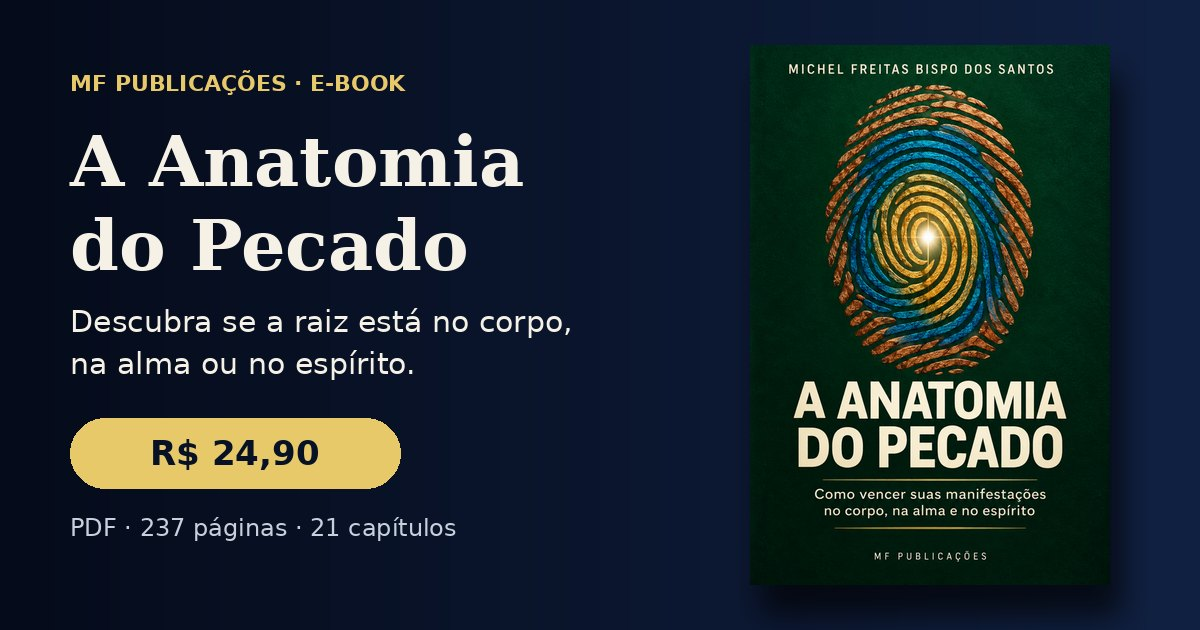
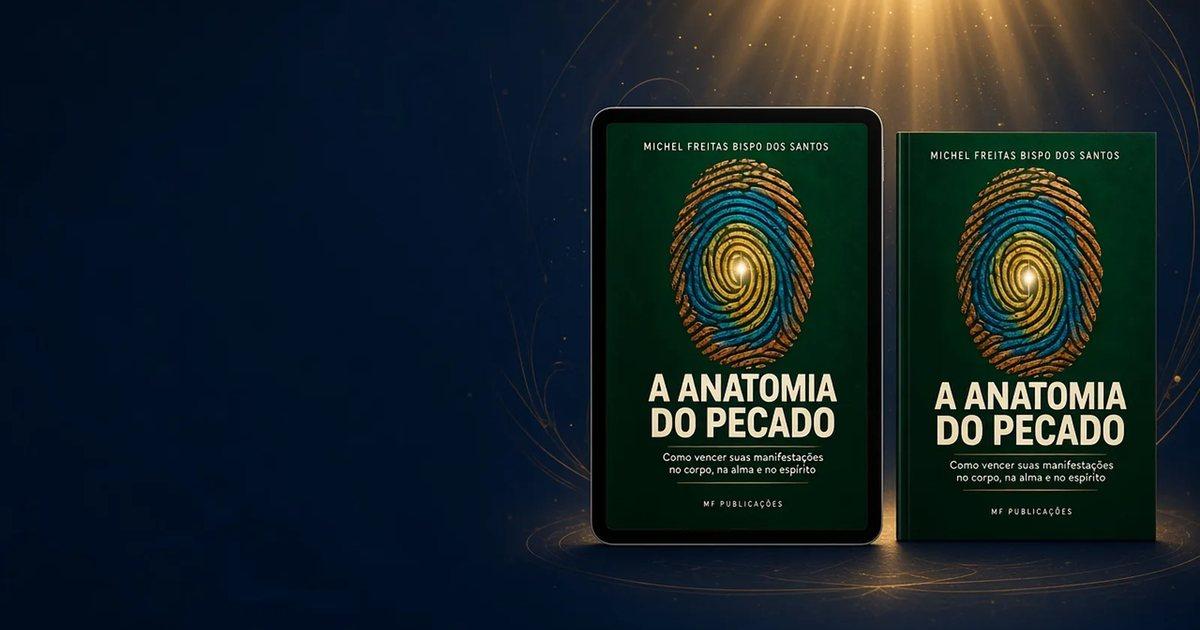
Wire the new hero, virada, author, and divider images.
Use the 16:9 book mockup in the hero, the open Bible in A virada, the gold portrait for the author, and the filigree between major sections. Rebuild the Open Graph image from the hero and drop the photos those sections no longer use.

diff --git a/styles.css b/styles.css
@@ -21,7 +21,7 @@ h3{font-size:1.35rem}
 
 /* HERO */
 .hero{background:radial-gradient(circle at 85% 15%,#1a3466,transparent 42%),linear-gradient(160deg,var(--navy3) 30%,var(--navy));color:var(--cream)}
-.hero-grid{display:grid;grid-template-columns:1.15fr .85fr;gap:56px;align-items:center;padding-block:72px}
+.hero-grid{display:grid;grid-template-columns:minmax(0,1.05fr) minmax(0,.95fr);gap:28px;align-items:center;padding-block:52px 44px}
 .hero h1 em{color:var(--gold2);font-style:italic}
 .lead{font-size:1.15rem;opacity:.92;max-width:600px;margin:0 0 24px}
 .buy-box{background:#ffffff0d;border:1px solid #e8c96a40;border-radius:20px;padding:20px;max-width:520px}
@@ -34,7 +34,8 @@ h3{font-size:1.35rem}
 .btn:focus-visible{outline:3px solid #fff;outline-offset:3px}
 .btn-inline{display:inline-flex;margin-top:8px}
 .micro{font-size:.82rem;opacity:.72;margin:12px 0 0}
-.hero-photo{justify-self:center;max-width:440px;border-radius:20px;overflow:hidden;box-shadow:0 30px 70px #0006}
+.hero-photo{justify-self:end;width:100%;max-width:620px;border:0;border-radius:0;overflow:visible;box-shadow:none;background:transparent}
+.hero-photo img{width:100%;height:auto;aspect-ratio:16/9;object-fit:cover;object-position:right center;-webkit-mask-image:linear-gradient(90deg,transparent 0%,#000 30%,#000 100%),linear-gradient(transparent 0%,#000 8%,#000 92%,transparent 100%);-webkit-mask-composite:source-in;mask-image:linear-gradient(90deg,transparent 0%,#000 30%,#000 100%),linear-gradient(transparent 0%,#000 8%,#000 92%,transparent 100%);mask-composite:intersect}
 
 .strip{display:flex;justify-content:center;gap:28px;padding:11px;background:var(--navy3);color:#9aa8c0;font-size:.66rem;letter-spacing:.13em;border-top:1px solid #e8c96a26}
 .strip b{color:var(--gold2)}
@@ -58,7 +59,9 @@ blockquote{font-family:"Playfair Display",serif;font-style:italic;font-size:1.55
 .list b{color:var(--gold-ink);font-family:"Playfair Display",serif;font-size:1.2rem}
 
 .split{display:grid;grid-template-columns:1fr 1fr;gap:58px;align-items:center}
-.photo{border-radius:20px;overflow:hidden;max-width:460px;border:1px solid #c9a24a55;justify-self:center;box-shadow:0 24px 60px #0b1a3333}
+.photo{border-radius:20px;overflow:hidden;max-width:500px;border:1px solid #c9a24a55;justify-self:center;box-shadow:0 24px 60px #0b1a3333}
+.photo img{width:100%;height:auto}
+.turn .photo img{aspect-ratio:4/3;object-fit:cover}
 .book{justify-self:center;max-width:340px;perspective:900px}
 .book img{border-radius:6px;box-shadow:0 30px 60px #0008,0 0 0 1px #ffffff14;transition:transform .4s}
 .excerpt{font-size:1.25rem;color:var(--ink);background:#fff8;border-left:4px solid var(--gold);border-radius:0 14px 14px 0;padding:22px 24px;margin:20px 0 0}
@@ -99,6 +102,9 @@ footer p{margin:4px 0}
 footer .brand{color:var(--gold2);font-weight:800;letter-spacing:.18em}
 footer a{color:var(--gold2)}
 
+.ornament{background:#041027;line-height:0;padding:12px 0 16px}
+.ornament img{width:min(520px,calc(100% - 48px));height:auto;margin:0 auto;-webkit-mask-image:linear-gradient(90deg,transparent,#000 14%,#000 86%,transparent);mask-image:linear-gradient(90deg,transparent,#000 14%,#000 86%,transparent)}
+
 .sticky{display:none}
 
 /* Animações */
@@ -109,8 +115,9 @@ footer a{color:var(--gold2)}
 
 @media(max-width:880px){
   .hero-grid,.split{grid-template-columns:1fr}
-  .hero-grid{padding-block:28px 40px;gap:28px}
-  .hero-photo{max-width:300px}
+  .hero-grid{padding-block:20px 28px;gap:18px}
+  .hero-photo{max-width:none;width:100%;justify-self:stretch;border-radius:16px;overflow:hidden;border:1px solid #c9a24a40}
+  .hero-photo img{-webkit-mask-image:none;mask-image:none}
   .cards,.toc{grid-template-columns:1fr}
   .steps{grid-template-columns:1fr 1fr}
   .section{padding:64px 0}
@@ -121,14 +128,17 @@ footer a{color:var(--gold2)}
 @media(max-width:560px){
   body{padding-bottom:84px}
   .shell,.narrow{width:calc(100% - 32px)}
-  h1{font-size:1.85rem}
+  .hero-grid{padding-block:14px 16px;gap:14px}
+  h1{font-size:1.68rem;margin-bottom:10px}
   h2{font-size:1.7rem}
-  .lead{font-size:1.02rem;margin-bottom:18px}
-  .eyebrow{margin-bottom:10px}
-  .buy-box{padding:16px}
-  .price{font-size:2.2rem}
-  .hero-photo{max-width:240px}
-  .btn{width:100%;padding:17px 16px;font-size:.95rem}
+  .lead{font-size:1rem;margin-bottom:12px}
+  .eyebrow{margin-bottom:8px}
+  .buy-box{padding:14px}
+  .price-row{gap:12px;margin-bottom:12px}
+  .mini-cover{width:52px}
+  .price{font-size:2.05rem}
+  .micro{margin-top:8px}
+  .btn{width:100%;padding:15px 16px;font-size:.95rem}
   .steps{grid-template-columns:1fr}
   .strip span:last-child{display:none}
   .strip{font-size:.55rem;gap:12px}
@@ -149,6 +159,6 @@ footer a{color:var(--gold2)}
   .sticky{transition:none}
 }
 
-.author-photo{max-width:380px}
-@media(max-width:880px){.author-photo{max-width:280px}}
-.hero-photo{border:1px solid #c9a24a55}
+.author-photo{max-width:340px;border-radius:16px;background:#071226}
+.author-photo img{aspect-ratio:1/1;object-fit:contain}
+@media(max-width:880px){.author-photo{max-width:260px}}

diff --git a/index.html b/index.html
@@ -81,9 +81,8 @@ ttq.page();
         <p class="micro">Pagamento seguro pela Kiwify · Acesso enviado por e-mail após a confirmação</p>
       </div>
     </div>
-    <!-- FOTO DO HERO: para trocar, rode nova/build_images.py ou substitua assets/img/autor-hero.webp (880×1100) e autor-hero-sm.webp (440×550) -->
     <figure class="hero-photo">
-      <img src="assets/img/autor-hero.webp" srcset="assets/img/autor-hero-sm.webp 440w, assets/img/autor-hero.webp 880w" sizes="(max-width:560px) 240px, (max-width:880px) 300px, 440px" width="880" height="1100" alt="Michel Freitas segurando o livro A Anatomia do Pecado" fetchpriority="high">
+      <img src="assets/img/hero-livro.webp" srcset="assets/img/hero-livro-sm.webp 800w, assets/img/hero-livro.webp 1600w" sizes="(max-width:880px) calc(100vw - 32px), 560px" width="1600" height="900" alt="E-book A Anatomia do Pecado em tablet e livro" fetchpriority="high">
     </figure>
   </div>
 </header>
@@ -103,6 +102,10 @@ ttq.page();
     <a class="btn btn-inline" href="https://pay.kiwify.com.br/zNCxCUE" data-cta="ciclo">QUERO O E-BOOK POR R$ 24,90</a>
   </div>
 </section>
+
+<div class="ornament" aria-hidden="true">
+  <img src="assets/img/divisor.webp" srcset="assets/img/divisor-sm.webp 512w, assets/img/divisor.webp 1024w" sizes="(max-width:600px) 88vw, 520px" width="1024" height="180" alt="" loading="lazy" decoding="async">
+</div>
 
 <!-- ============ ESTRUTURA ============ -->
 <section class="dark section">
@@ -214,12 +217,15 @@ ttq.page();
   </div>
 </section>
 
+<div class="ornament" aria-hidden="true">
+  <img src="assets/img/divisor.webp" srcset="assets/img/divisor-sm.webp 512w, assets/img/divisor.webp 1024w" sizes="(max-width:600px) 88vw, 520px" width="1024" height="180" alt="" loading="lazy" decoding="async">
+</div>
+
 <!-- ============ A VIRADA ============ -->
 <section class="turn section">
   <div class="shell split">
-    <!-- FOTO "A VIRADA": substitua assets/img/autor-mesa.webp (880×1100) e autor-mesa-sm.webp (440×550) -->
     <figure class="photo reveal">
-      <img src="assets/img/autor-mesa.webp" srcset="assets/img/autor-mesa-sm.webp 440w, assets/img/autor-mesa.webp 880w" sizes="(max-width:880px) 90vw, 460px" width="880" height="1100" loading="lazy" decoding="async" alt="Michel Freitas no escritório da MF Publicações">
+      <img src="assets/img/secao-virada.webp" srcset="assets/img/secao-virada-sm.webp 512w, assets/img/secao-virada.webp 1024w" sizes="(max-width:880px) 90vw, 480px" width="1024" height="768" loading="lazy" decoding="async" alt="Bíblia aberta sobre a mesa à luz de um abajur">
     </figure>
     <div class="reveal">
       <span class="eyebrow ink">A VIRADA</span>
@@ -230,12 +236,15 @@ ttq.page();
   </div>
 </section>
 
+<div class="ornament" aria-hidden="true">
+  <img src="assets/img/divisor.webp" srcset="assets/img/divisor-sm.webp 512w, assets/img/divisor.webp 1024w" sizes="(max-width:600px) 88vw, 520px" width="1024" height="180" alt="" loading="lazy" decoding="async">
+</div>
+
 <!-- ============ SOBRE O AUTOR ============ -->
 <section class="cream section">
   <div class="shell split">
-    <!-- FOTO DO AUTOR: substitua assets/img/autor-retrato.webp (640×640) e autor-retrato-sm.webp (320×320) -->
     <figure class="photo author-photo reveal">
-      <img src="assets/img/autor-retrato.webp" srcset="assets/img/autor-retrato-sm.webp 320w, assets/img/autor-retrato.webp 640w" sizes="(max-width:880px) 280px, 380px" width="640" height="640" loading="lazy" decoding="async" alt="Michel Freitas Bispo dos Santos">
+      <img src="assets/img/autor-ilustrado.webp" srcset="assets/img/autor-ilustrado-sm.webp 400w, assets/img/autor-ilustrado.webp 800w" sizes="(max-width:880px) 260px, 340px" width="800" height="800" loading="lazy" decoding="async" alt="Ilustração: Michel Freitas lendo a Bíblia">
     </figure>
     <div class="reveal">
       <span class="eyebrow ink">SOBRE O AUTOR</span>
@@ -287,6 +296,10 @@ ttq.page();
     <details><summary>Tive um problema com o acesso. Com quem falo?</summary><p>Responda ao e-mail de compra da Kiwify ou fale com a MF Publicações pelos canais no rodapé desta página.</p></details>
   </div>
 </section>
+
+<div class="ornament" aria-hidden="true">
+  <img src="assets/img/divisor.webp" srcset="assets/img/divisor-sm.webp 512w, assets/img/divisor.webp 1024w" sizes="(max-width:600px) 88vw, 520px" width="1024" height="180" alt="" loading="lazy" decoding="async">
+</div>
 
 <!-- ============ CHAMADA FINAL ============ -->
 <section class="dark section final">

diff --git a/README.md b/README.md
@@ -3,12 +3,13 @@
 Página estática para GitHub Pages: `index.html`, `styles.css`, `script.js` e `assets/img/`.
 
 ## Como trocar as fotos
-Substitua os arquivos em `assets/img/` mantendo os mesmos nomes (proporção retrato 9:16, ex.: 863×1536):
-- `autor-hero.webp` / `autor-hero-480.webp` — foto do topo
-- `autor-leitura.webp` / `autor-leitura-480.webp` — seção "A virada"
-- `autor-retrato.webp` / `autor-retrato-480.webp` — "Sobre o autor"
+Substitua os arquivos em `assets/img/` mantendo os mesmos nomes:
+- `hero-livro.webp` (1600×900) / `hero-livro-sm.webp` (800×450) — mockup do topo, 16:9
+- `secao-virada.webp` (1024×768) / `secao-virada-sm.webp` (512×384) — seção "A virada", 4:3
+- `autor-ilustrado.webp` (800×800) / `autor-ilustrado-sm.webp` (400×400) — "Sobre o autor"
+- `divisor.webp` (1024×180) / `divisor-sm.webp` (512×90) — ornamento entre seções
 - `capa.webp` (600×900), `capa-300.webp` — capa do livro
-- `og-image.jpg` (1200×630) — imagem da prévia no WhatsApp/redes
+- `og-image.jpg` (1200×630) — imagem da prévia no WhatsApp/redes, gerada a partir de `hero-livro.webp`
 
 ## Pixels
 No `<head>` do `index.html` há blocos comentados do Meta Pixel e do TikTok Pixel. Troque `SEU_PIXEL_ID_META` / `SEU_PIXEL_ID_TIKTOK` e remova os comentários.
